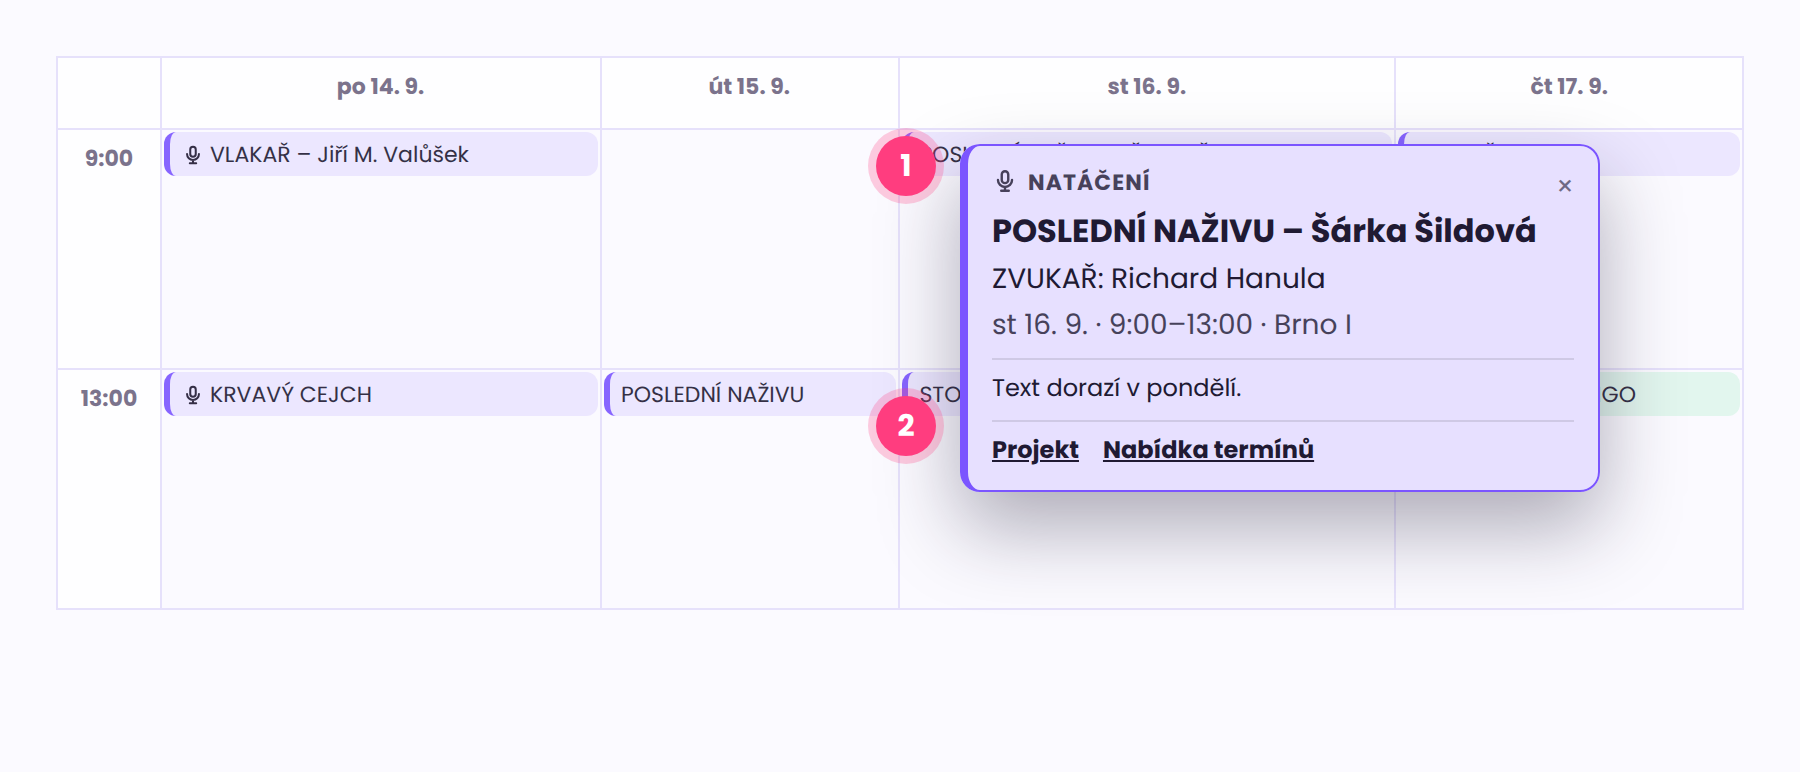
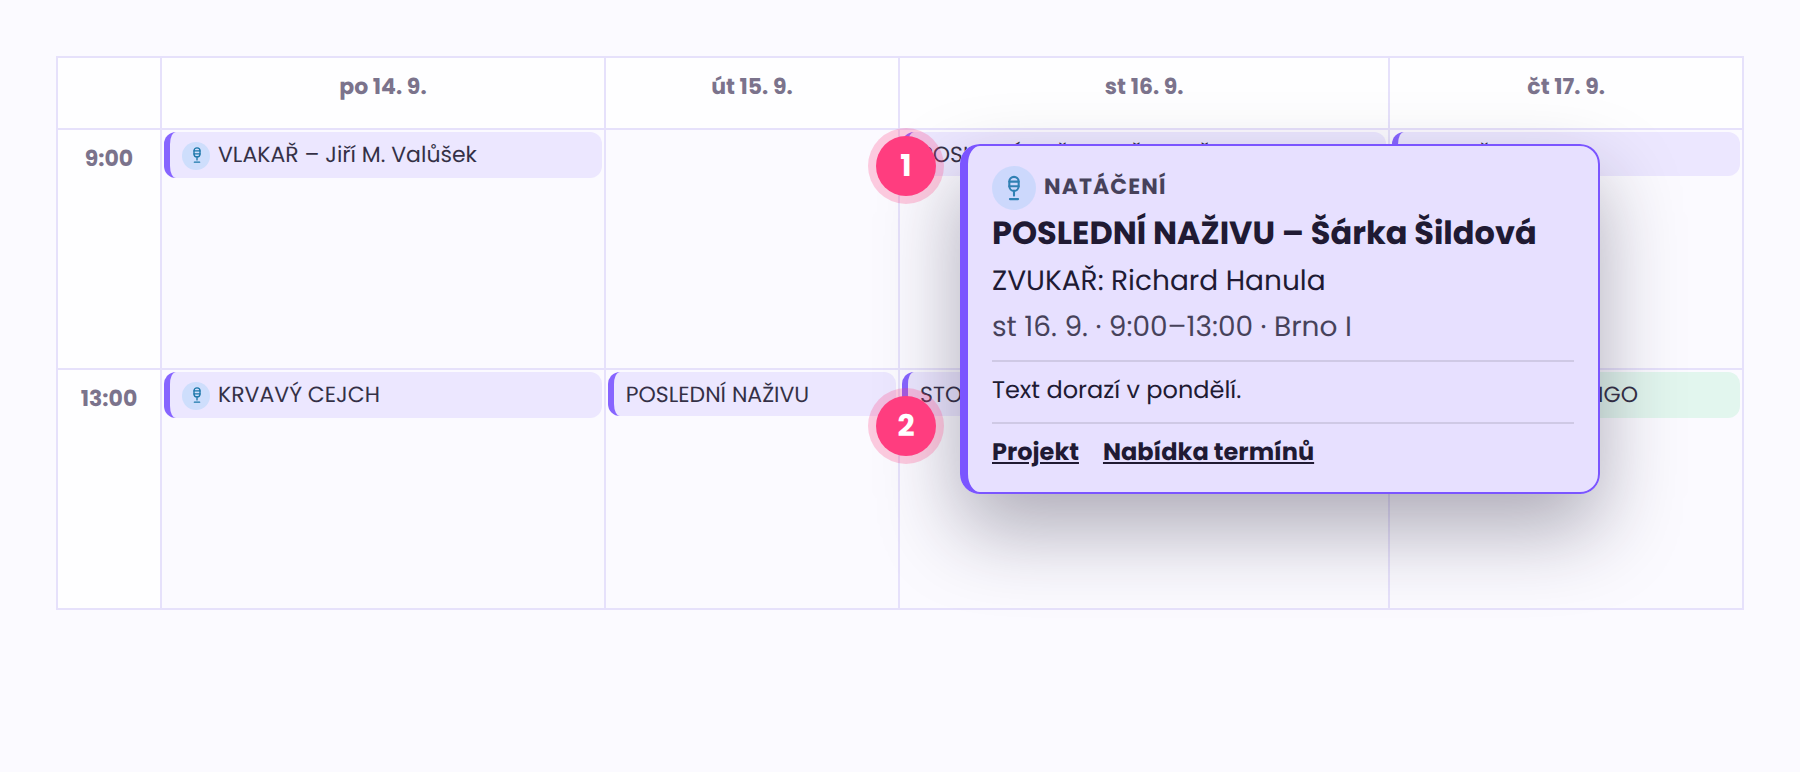
Kalendář: ikony druhu práce ve stylu typů projektů, náhled bez křížku
Ikony natáčení/střih/údržba/volno v barevném kolečku (lib/ikonyTypu). Zvětšená bublina se zavírá dalším klikem, křížek odstraněn. Aktualizován návod a snímek terminy-7.

Claude-Session: https://claude.ai/code/session_017ML6xEszibR659nh5zZn5o

diff --git a/scripts/navody/terminy.html b/scripts/navody/terminy.html
@@ -213,12 +213,12 @@ table{border-collapse:collapse;width:100%}
  <div style="position:relative;height:330px">
   <table class="kal" style="opacity:.9">
    <tr><th style="width:52px"></th><th>po 14. 9.</th><th>út 15. 9.</th><th>st 16. 9.</th><th>čt 17. 9.</th></tr>
-   <tr style="height:120px"><th>9:00</th><td><div class="ev"><svg viewBox="0 0 24 24" width="11" height="11" fill="none" stroke="currentColor" stroke-width="2.2" stroke-linecap="round" stroke-linejoin="round" style="vertical-align:-2px;margin-right:3px"><rect x="9" y="3" width="6" height="11" rx="3"/><path d="M5.5 11a6.5 6.5 0 0 0 13 0M12 17.5V21M8.5 21h7"/></svg>VLAKAŘ – Jiří M. Valůšek</div></td><td></td><td><div class="ev" style="border-color:#7b55ff">POSLEDNÍ NAŽIVU – Šárka Šild…</div></td><td><div class="ev">VLAKAŘ</div></td></tr>
-   <tr style="height:120px"><th>13:00</th><td><div class="ev"><svg viewBox="0 0 24 24" width="11" height="11" fill="none" stroke="currentColor" stroke-width="2.2" stroke-linecap="round" stroke-linejoin="round" style="vertical-align:-2px;margin-right:3px"><rect x="9" y="3" width="6" height="11" rx="3"/><path d="M5.5 11a6.5 6.5 0 0 0 13 0M12 17.5V21M8.5 21h7"/></svg>KRVAVÝ CEJCH</div></td><td><div class="ev">POSLEDNÍ NAŽIVU</div></td><td><div class="ev">STOJÍ ZA ČEKÁNÍ</div></td><td><div class="ev" style="border-color:#1fdf67;background:rgba(31,223,103,.12)"><svg viewBox="0 0 24 24" width="11" height="11" fill="none" stroke="currentColor" stroke-width="2.2" stroke-linecap="round" style="vertical-align:-1px;margin-right:3px"><circle cx="6" cy="6.5" r="2.8"/><circle cx="6" cy="17.5" r="2.8"/><path d="M8.3 8.2 20 18M8.3 15.8 20 6"/></svg>KUBÁNSKÉ TANGO</div></td></tr>
+   <tr style="height:120px"><th>9:00</th><td><div class="ev"><span style="display:inline-grid;place-items:center;width:14px;height:14px;border-radius:999px;background:rgba(14,165,233,.15);color:#0369a1;vertical-align:middle;margin-right:4px"><svg viewBox="0 0 24 24" width="9" height="9" fill="none" stroke="currentColor" stroke-width="1.8" stroke-linecap="round" stroke-linejoin="round"><rect x="8" y="2.5" width="8" height="12" rx="4"/><path d="M8 6.5h8M8 10.5h8"/><path d="M12 14.5v4M8.5 21.5h7"/></svg></span>VLAKAŘ – Jiří M. Valůšek</div></td><td></td><td><div class="ev" style="border-color:#7b55ff">POSLEDNÍ NAŽIVU – Šárka Šild…</div></td><td><div class="ev">VLAKAŘ</div></td></tr>
+   <tr style="height:120px"><th>13:00</th><td><div class="ev"><span style="display:inline-grid;place-items:center;width:14px;height:14px;border-radius:999px;background:rgba(14,165,233,.15);color:#0369a1;vertical-align:middle;margin-right:4px"><svg viewBox="0 0 24 24" width="9" height="9" fill="none" stroke="currentColor" stroke-width="1.8" stroke-linecap="round" stroke-linejoin="round"><rect x="8" y="2.5" width="8" height="12" rx="4"/><path d="M8 6.5h8M8 10.5h8"/><path d="M12 14.5v4M8.5 21.5h7"/></svg></span>KRVAVÝ CEJCH</div></td><td><div class="ev">POSLEDNÍ NAŽIVU</div></td><td><div class="ev">STOJÍ ZA ČEKÁNÍ</div></td><td><div class="ev" style="border-color:#1fdf67;background:rgba(31,223,103,.12)"><span style="display:inline-grid;place-items:center;width:14px;height:14px;border-radius:999px;background:#dcfce7;color:#15803d;vertical-align:middle;margin-right:4px"><svg viewBox="0 0 24 24" width="9" height="9" fill="none" stroke="currentColor" stroke-width="1.8" stroke-linecap="round" stroke-linejoin="round"><path d="M3 10.5v3M6 7.5v9M9 9.5v5"/><path d="M15 8.5v7M18 6v12M21 10.5v3"/><path d="M12 2.5v2.5M12 8v2.5M12 13.5v2.5M12 19v2.5" stroke-width="1.4"/></svg></span>KUBÁNSKÉ TANGO</div></td></tr>
   </table>
   <div style="position:absolute;left:452px;top:44px;width:320px;background:#fff;border-radius:10px;box-shadow:0 18px 40px rgba(32,26,51,.35)">
    <div style="border:1px solid #7b55ff;border-left-width:4px;border-radius:10px;background:rgba(123,85,255,.18);padding:10px 12px">
-    <div style="display:flex;justify-content:space-between"><span style="font-size:11px;font-weight:600;letter-spacing:.05em;opacity:.8"><svg viewBox="0 0 24 24" width="13" height="13" fill="none" stroke="currentColor" stroke-width="2.2" stroke-linecap="round" stroke-linejoin="round" style="vertical-align:-2px;margin-right:5px"><rect x="9" y="3" width="6" height="11" rx="3"/><path d="M5.5 11a6.5 6.5 0 0 0 13 0M12 17.5V21M8.5 21h7"/></svg>NATÁČENÍ</span><span style="opacity:.6">×</span></div>
+    <div style="display:flex;justify-content:space-between"><span style="font-size:11px;font-weight:600;letter-spacing:.05em;opacity:.8"><span style="display:inline-grid;place-items:center;width:22px;height:22px;border-radius:999px;background:rgba(14,165,233,.15);color:#0369a1;vertical-align:middle;margin-right:4px"><svg viewBox="0 0 24 24" width="14" height="14" fill="none" stroke="currentColor" stroke-width="1.8" stroke-linecap="round" stroke-linejoin="round"><rect x="8" y="2.5" width="8" height="12" rx="4"/><path d="M8 6.5h8M8 10.5h8"/><path d="M12 14.5v4M8.5 21.5h7"/></svg></span>NATÁČENÍ</span></div>
     <p style="margin:2px 0 0;font-size:16px;font-weight:600;line-height:1.3">POSLEDNÍ NAŽIVU – Šárka Šildová</p>
     <p style="margin:2px 0 0;font-size:14px">ZVUKAŘ: Richard Hanula</p>
     <p style="margin:2px 0 0;font-size:14px;opacity:.8">st 16. 9. · 9:00–13:00 · Brno I</p>

diff --git a/src/app/(portal)/kalendar/CalendarBrowser.tsx b/src/app/(portal)/kalendar/CalendarBrowser.tsx
@@ -2,6 +2,7 @@
 
 import { useEffect, useMemo, useRef, useState } from 'react';
 import { OdberKalendare } from './OdberKalendare';
+import { KresbaIkony, tridaBarvyIkony } from '@/lib/ikonyTypu';
 import Link from 'next/link';
 import { useRouter } from 'next/navigation';
 import {
@@ -884,7 +885,7 @@ function MrizkaPohled({
                               key={i}
                               className="block text-[10px] font-heading font-semibold leading-tight truncate"
                             >
-                              <IkonaDruhu druh={druhPrace(e)} className="w-2.5 h-2.5 mr-0.5" />
+                              <IkonaDruhu druh={druhPrace(e)} velikost={14} />
                               {radek}
                             </span>
                           ) : (
@@ -998,7 +999,7 @@ function MesicniPohled({
                   >
                     {/* V měsíci je na řádek místo jen na to podstatné - název
                         a zvukař (20. 9. 2026: „nejsou tam vidět zvukaři"). */}
-                    <IkonaDruhu druh={druhPrace(e)} className="w-2.5 h-2.5 mr-0.5" />
+                    <IkonaDruhu druh={druhPrace(e)} velikost={14} />
                     {e.title.split('\n')[0]}
                     {(() => {
                       const zv = e.title.split('\n').find((r) => r.startsWith('ZVUKAŘ:'));
@@ -1499,44 +1500,29 @@ export function druhPrace(e: Pick<CalendarEvent, 'kind' | 'state'>): 'NATACENI' 
   return null;
 }
 
-function IkonaDruhu({ druh, className = 'w-3 h-3' }: { druh: ReturnType<typeof druhPrace>; className?: string }) {
+/** Klíč ikony ze sady typů projektu (lib/ikonyTypu.tsx) pro druh práce. */
+const IKONA_DRUHU: Record<NonNullable<ReturnType<typeof druhPrace>>, string> = {
+  NATACENI: 'mikrofon-studio',
+  STRIH: 'strih',
+  UDRZBA: 'klic',
+  VOLNO: 'slunce',
+};
+
+/**
+ * Ikona druhu práce ve stylu typů projektů (zadání 20. 9. 2026) - kolečko
+ * s tlumeným podkladem a barevnou kresbou, jen menší.
+ */
+function IkonaDruhu({ druh, velikost = 16 }: { druh: ReturnType<typeof druhPrace>; velikost?: number }) {
   if (!druh) return null;
-  const spolecne = {
-    viewBox: '0 0 24 24',
-    fill: 'none',
-    stroke: 'currentColor',
-    strokeWidth: 2.2,
-    strokeLinecap: 'round' as const,
-    strokeLinejoin: 'round' as const,
-    className: `${className} shrink-0 inline-block align-[-0.125em]`,
-    'aria-hidden': true,
-  };
-  if (druh === 'NATACENI')
-    return (
-      <svg {...spolecne}>
-        <rect x="9" y="3" width="6" height="11" rx="3" />
-        <path d="M5.5 11a6.5 6.5 0 0 0 13 0M12 17.5V21M8.5 21h7" />
-      </svg>
-    );
-  if (druh === 'STRIH')
-    return (
-      <svg {...spolecne}>
-        <circle cx="6" cy="6.5" r="2.8" />
-        <circle cx="6" cy="17.5" r="2.8" />
-        <path d="M8.3 8.2 20 18M8.3 15.8 20 6" />
-      </svg>
-    );
-  if (druh === 'UDRZBA')
-    return (
-      <svg {...spolecne}>
-        <path d="M14.5 5.5a4 4 0 0 0 4.9 4.9L21 12l-9 9-3-3 9-9-1.6-1.6a4 4 0 0 0-4.9-4.9l2.5 2.5-1.5 1.5z" />
-      </svg>
-    );
+  const klic = IKONA_DRUHU[druh];
   return (
-    <svg {...spolecne}>
-      <circle cx="12" cy="12" r="4" />
-      <path d="M12 2.5v2M12 19.5v2M2.5 12h2M19.5 12h2M5.3 5.3l1.4 1.4M17.3 17.3l1.4 1.4M5.3 18.7l1.4-1.4M17.3 6.7l1.4-1.4" />
-    </svg>
+    <span
+      aria-hidden
+      className={`shrink-0 inline-grid place-items-center rounded-pill align-middle mr-1 ${tridaBarvyIkony(klic)}`}
+      style={{ width: velikost, height: velikost }}
+    >
+      <KresbaIkony klic={klic} velikost={Math.round(velikost * 0.62)} />
+    </span>
   );
 }
 
@@ -1641,7 +1627,7 @@ function DetailUdalosti({
         >
           <div className="flex items-start justify-between gap-2">
             <span className="inline-flex items-center gap-1.5 text-[11px] font-heading font-semibold uppercase tracking-wide opacity-80">
-              <IkonaDruhu druh={druhPrace(event)} className="w-3.5 h-3.5" />
+              <IkonaDruhu druh={druhPrace(event)} velikost={22} />
               {stav}
             </span>
             <button

diff --git a/src/lib/ikonyTypu.tsx b/src/lib/ikonyTypu.tsx
@@ -367,6 +367,43 @@ export const IKONY_TYPU: Ikona[] = [
     popisek: 'Srdce',
     kresba: <path d="M12 20.5S3.5 15 3.5 9a4.5 4.5 0 0 1 8.5-2 4.5 4.5 0 0 1 8.5 2c0 6-8.5 11.5-8.5 11.5" />,
   },
+  /**
+   * DRUHY PRÁCE V KALENDÁŘI (zadání 20. 9. 2026: „chci to ve stylu typů
+   * projektů"). Stejná mřížka a tah jako zbytek sady; natáčení bere
+   * studiový mikrofon výše.
+   */
+  {
+    klic: 'strih',
+    barva: 'zelena',
+    popisek: 'Střih',
+    // Zvukova vlna rozstrizena - dva kusy a mezi nimi strih.
+    kresba: (
+      <>
+        <path d="M3 10.5v3M6 7.5v9M9 9.5v5" />
+        <path d="M15 8.5v7M18 6v12M21 10.5v3" />
+        <path d="M12 2.5v2.5M12 8v2.5M12 13.5v2.5M12 19v2.5" strokeWidth="1.4" />
+      </>
+    ),
+  },
+  {
+    klic: 'klic',
+    barva: 'seda',
+    popisek: 'Údržba',
+    kresba: (
+      <path d="M14.5 3.8a5 5 0 0 0-5.3 6.6L3.5 16.1v4.4h4.4l5.7-5.7a5 5 0 0 0 6.6-5.3l-3 3-3-.9-.9-3z" />
+    ),
+  },
+  {
+    klic: 'slunce',
+    barva: 'jantarova',
+    popisek: 'Volno',
+    kresba: (
+      <>
+        <circle cx="12" cy="12" r="4" />
+        <path d="M12 2.5v2M12 19.5v2M2.5 12h2M19.5 12h2M5.3 5.3l1.4 1.4M17.3 17.3l1.4 1.4M5.3 18.7l1.4-1.4M17.3 6.7l1.4-1.4" />
+      </>
+    ),
+  },
 ];
 
 const PODLE_KLICE = new Map(IKONY_TYPU.map((i) => [i.klic, i]));

diff --git a/prisma/navodNataceciTerminy.ts b/prisma/navodNataceciTerminy.ts
@@ -80,7 +80,7 @@ V kalendáři jsou jen termíny, které **platí** — držené (herec vybral) a
 
 ![Bublina po jednom kliknutí vystoupí a zvětší se](/navody/terminy-7.png)
 
-1. **Druh práce s ikonou** nahoře (🎙 mikrofon = natáčení, ✂ nůžky = střih, klíč = údržba, slunce = svátek/dovolená) a pod ním celý text — název, herec a řádek ZVUKAŘ, nic se neořezává. Pod tím den, čas a studio, případně poznámka.
+1. **Druh práce s ikonou** nahoře v barevném kolečku jako u typů projektů (modrý mikrofon = natáčení, zelená rozstřižená zvuková vlna = střih, šedý klíč = údržba, oranžové slunce = svátek/dovolená) a pod ním celý text — název, herec a řádek ZVUKAŘ, nic se neořezává. Pod tím den, čas a studio, případně poznámka.
 2. **Odkazy** dole — **Projekt** a u frekvence **Nabídka termínů**.
 
 **Upravit a smazat** se dá jen v úpravě — **dvojklikem** na událost. Tlačítko **Smazat událost** je dole v okně úpravy.
